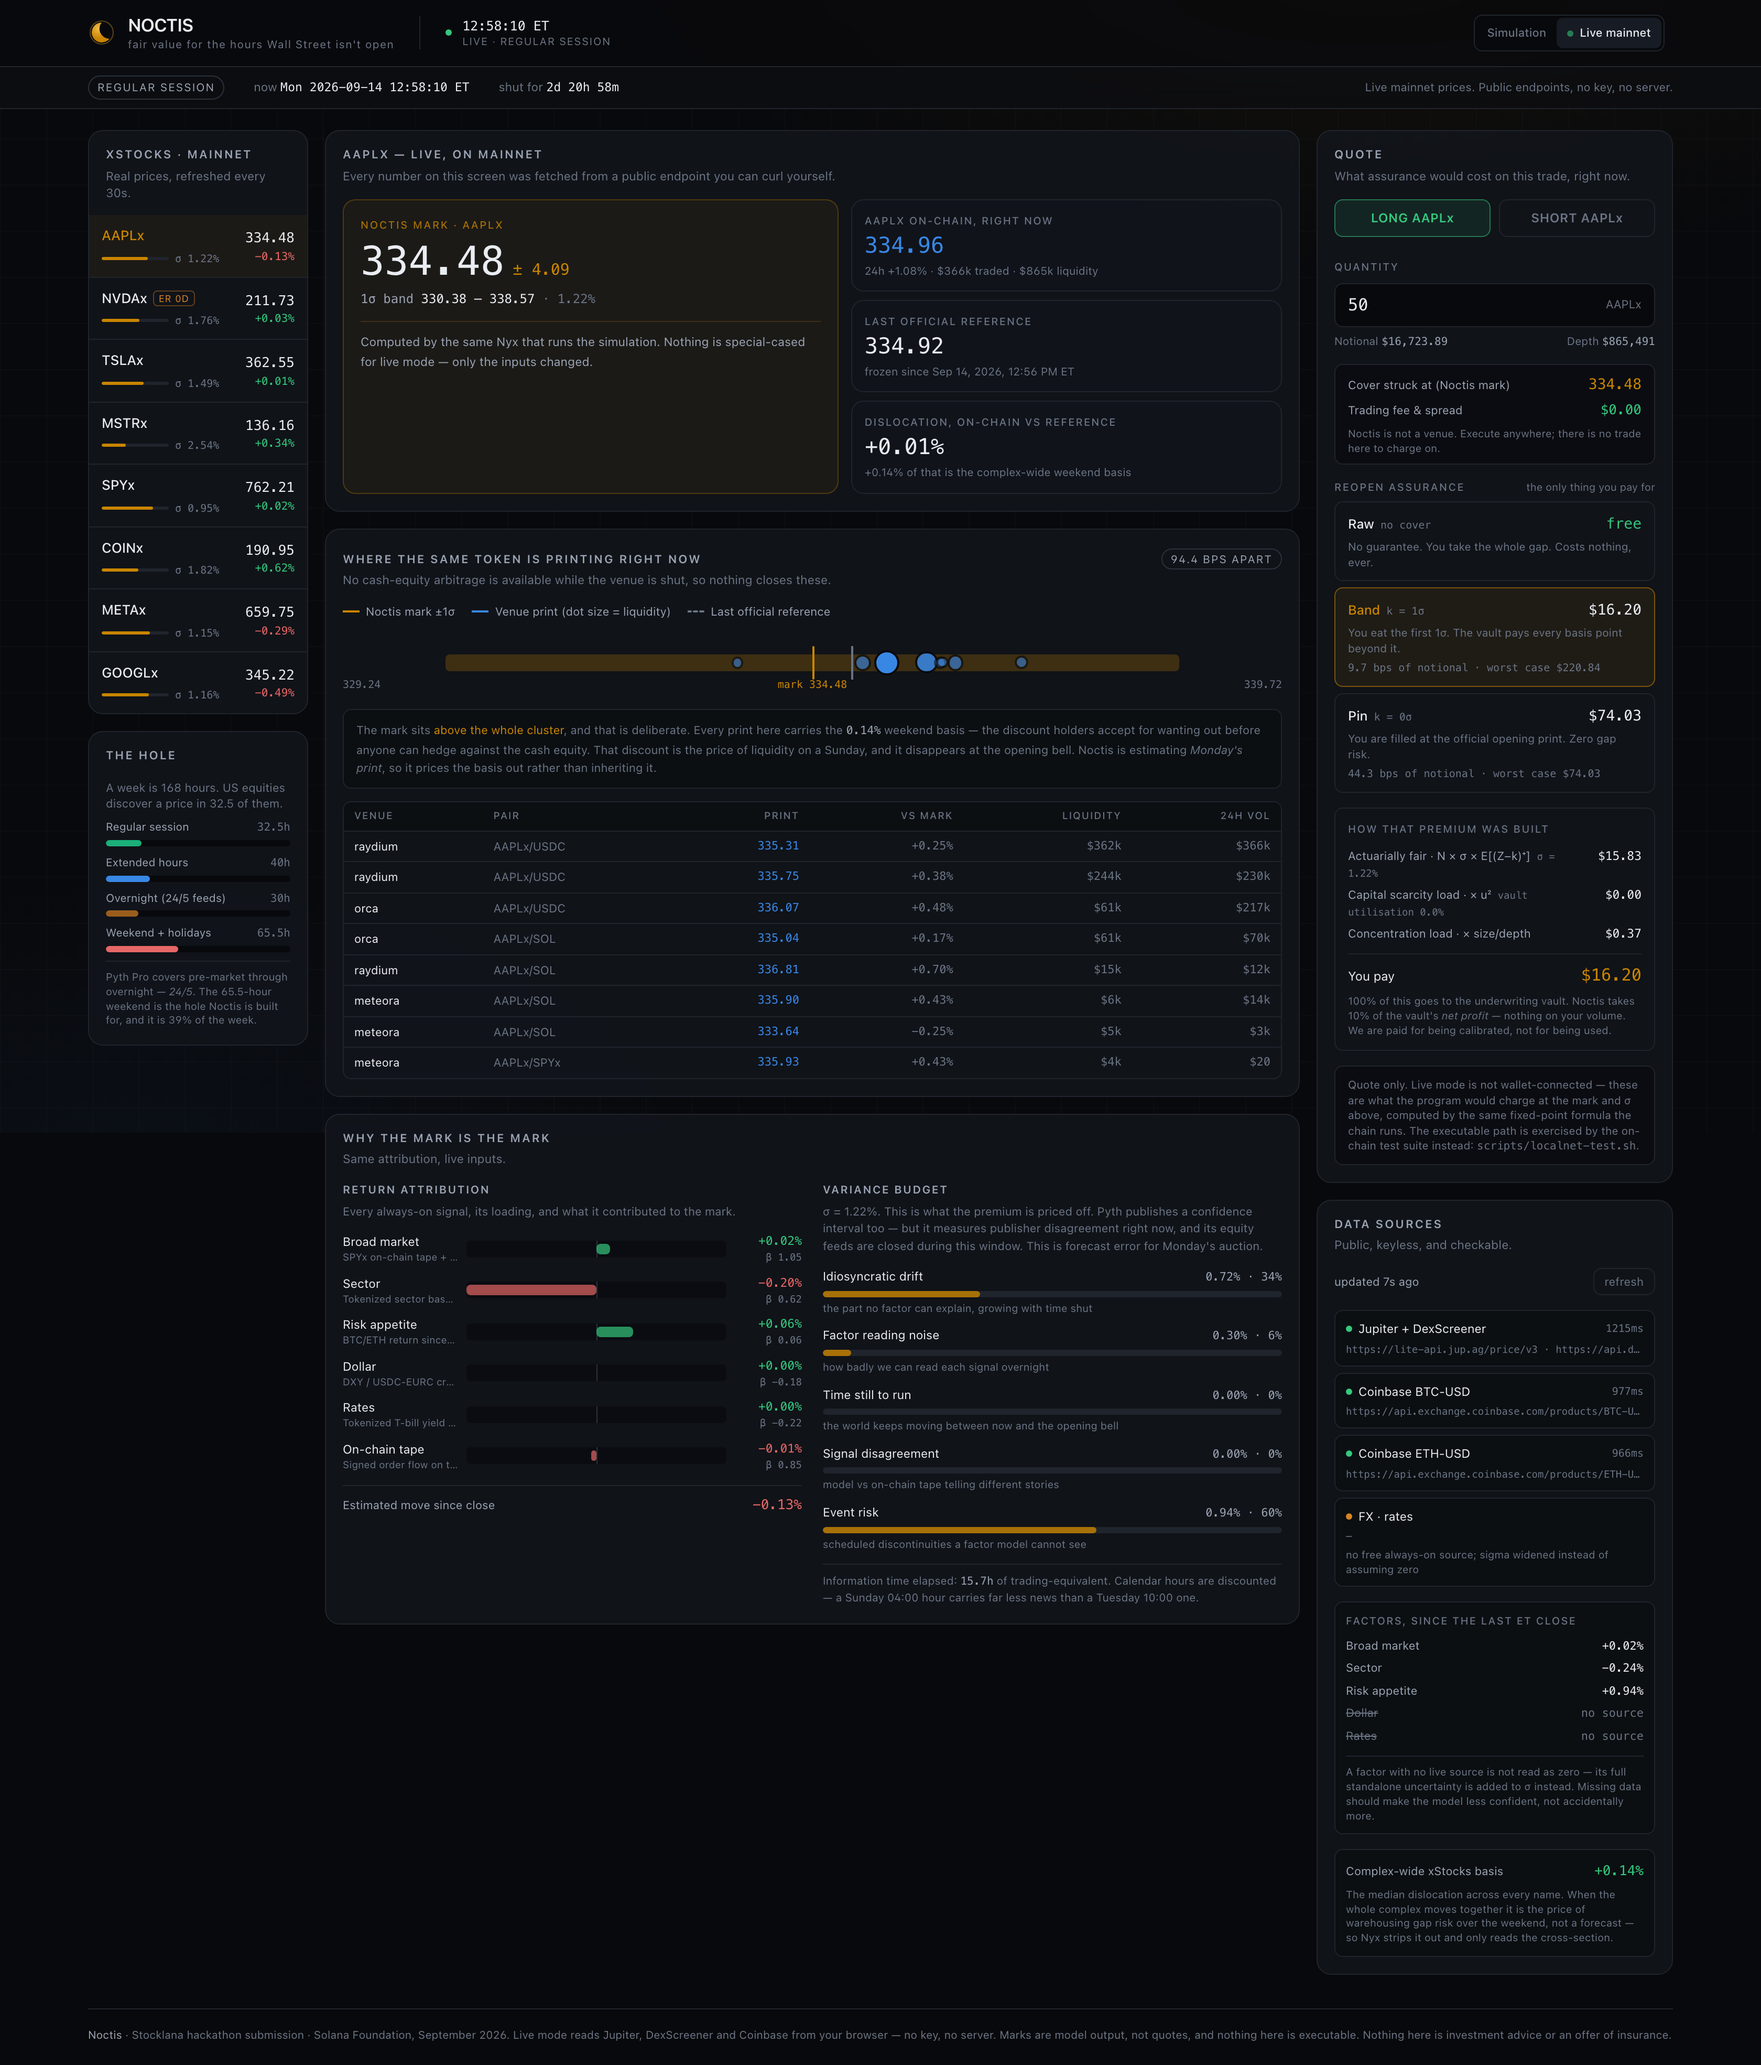
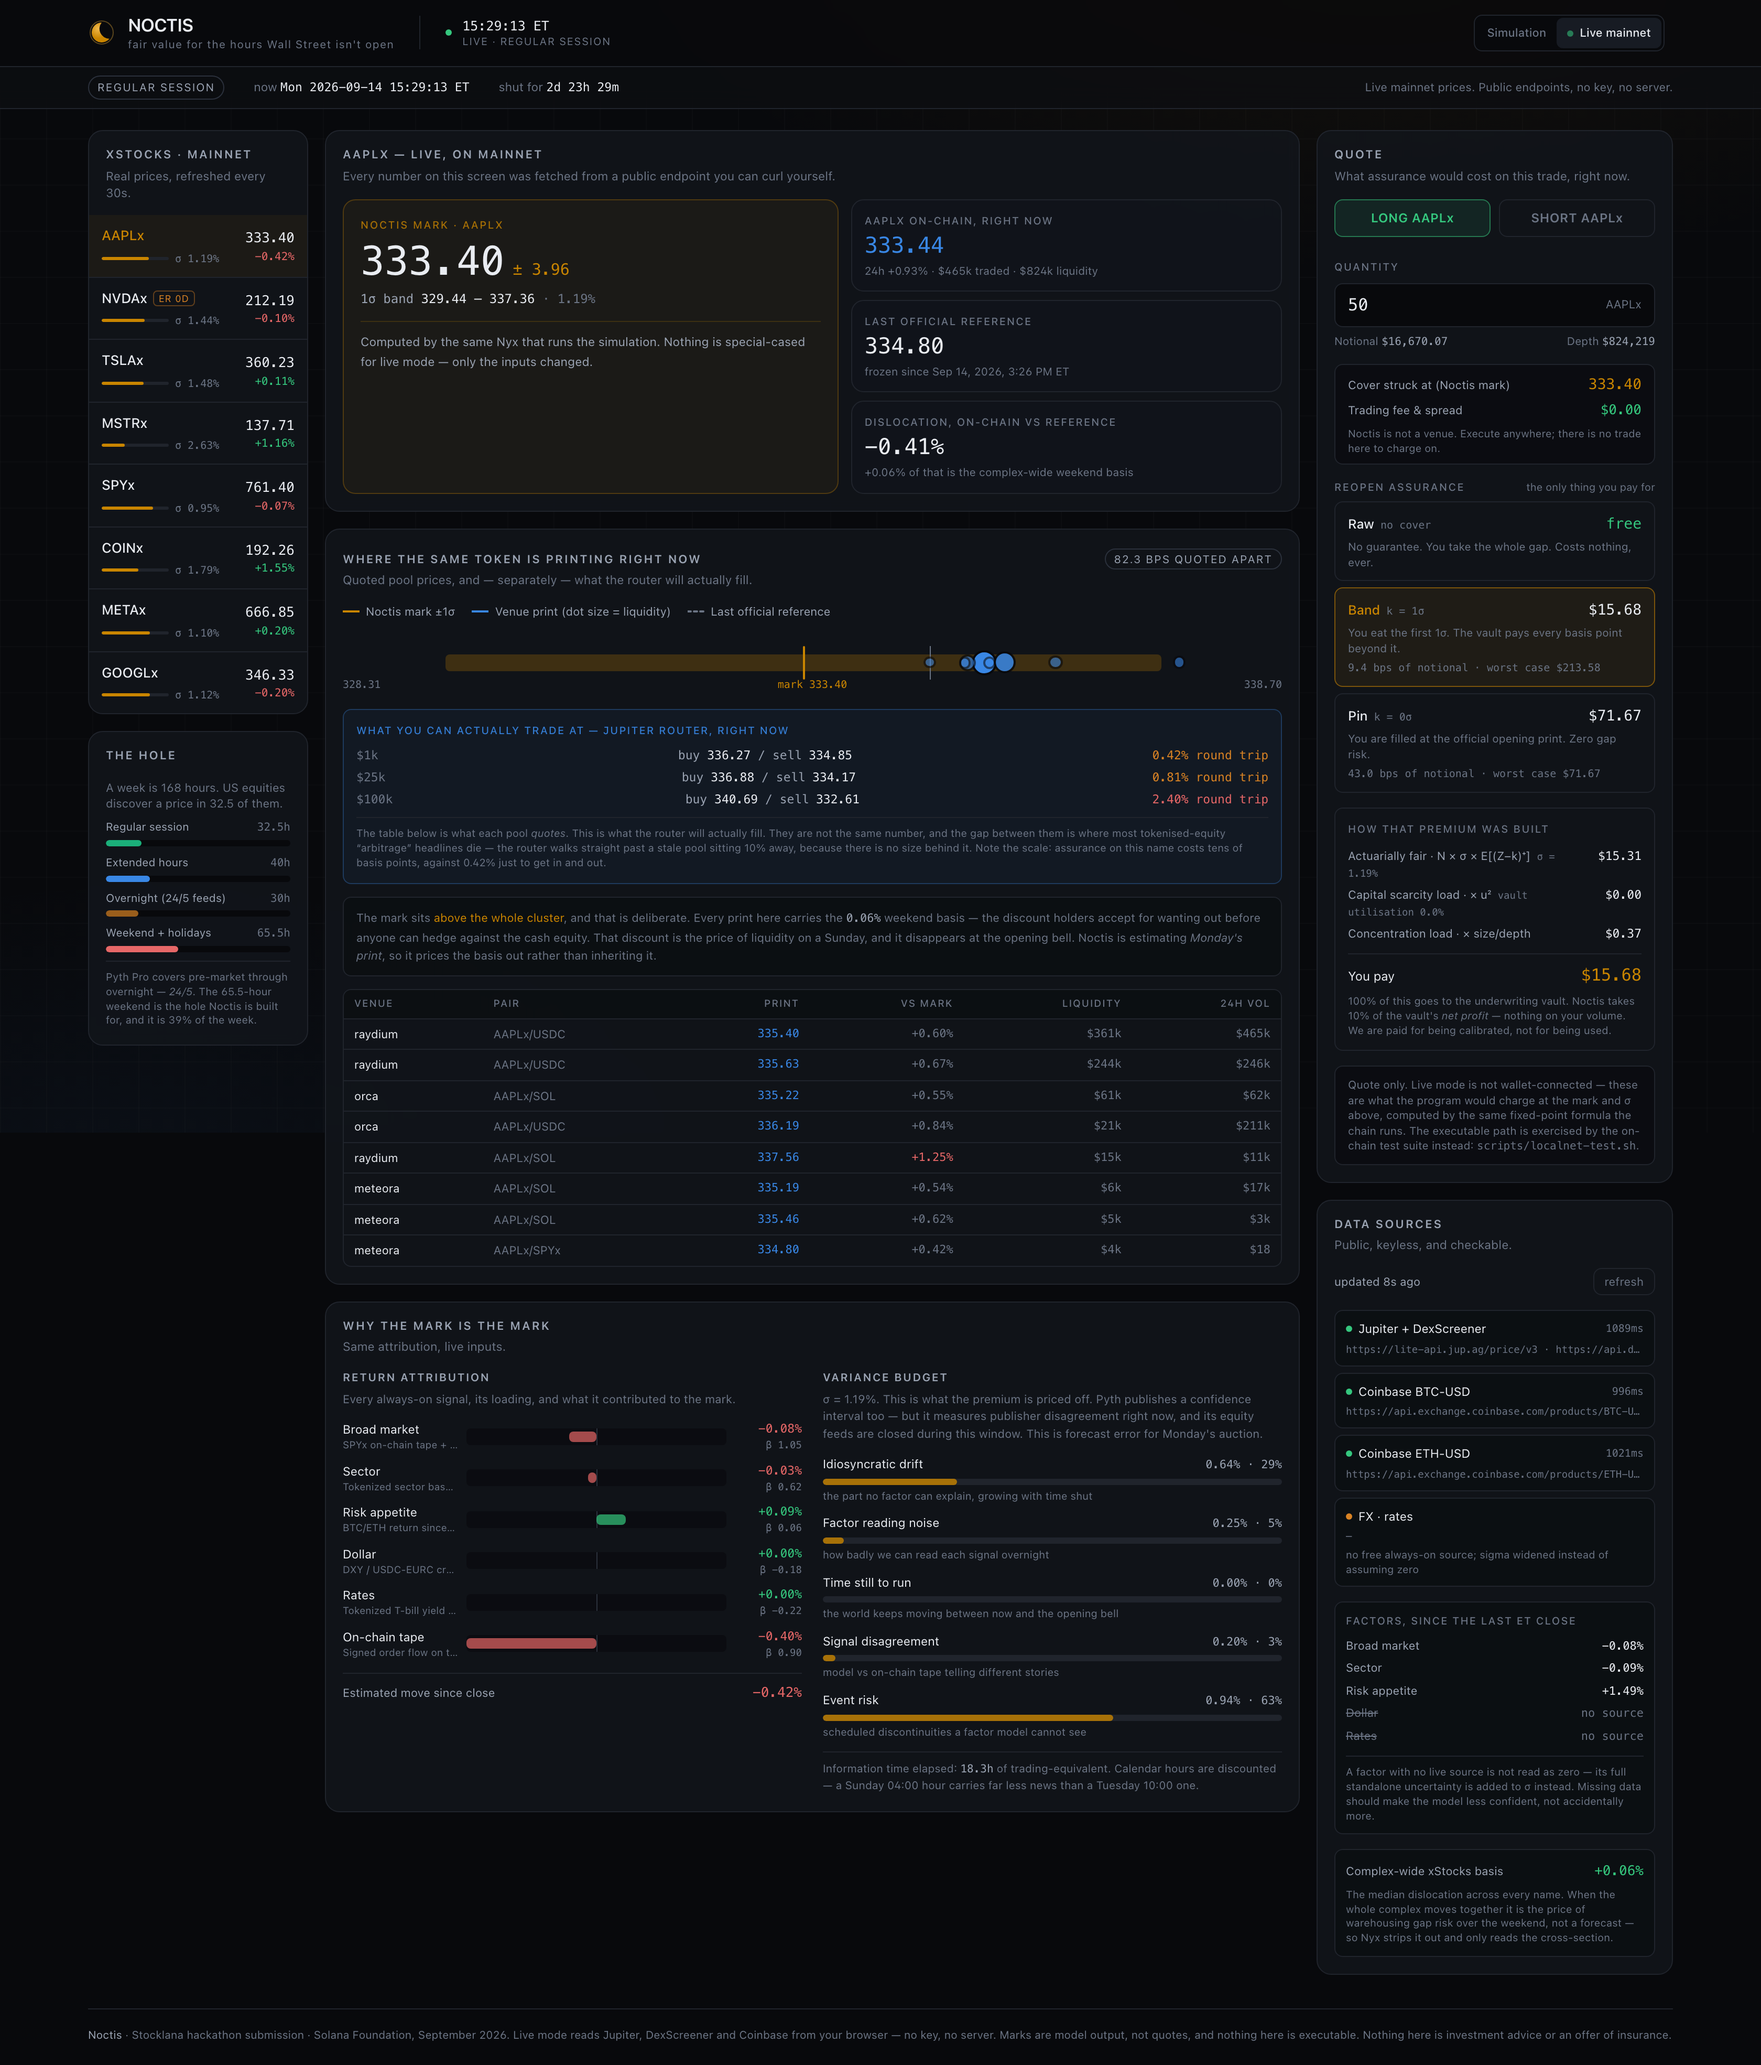
Quoted pool prices are not executable prices; show both
The demo headlined 1019 bps of dispersion across eight AAPLx pools. That number is
real as a statement about pool state and misleading as a statement about
opportunity -- a stale concentrated-liquidity position parked 10% away has no size
behind it and Jupiter's router walks straight past it. Presenting it without that
qualification is the most common error in tokenised-equity commentary and a judge
who trades would have caught it immediately.

The live panel now asks the router directly, both directions, at three sizes, and
reports the round trip: 0.42% at $1k, 0.81% at $25k, 2.40% at $100k. Quoted
dispersion is still shown, labelled as quoted.

Two things came out of measuring it. Same dispersion metric during Monday's session
reads 82 bps against 1019 on Sunday -- arbitrage tightens these pools when there is
something to arbitrage against and lets them scatter when there is not, which is
better evidence for the thesis than the raw level was. And it puts our own pricing
in proportion: assurance costs tens of basis points against 42 just to get in and
out.

diff --git a/app/src/components/VenueChart.tsx b/app/src/components/VenueChart.tsx
@@ -1,4 +1,4 @@
-import type { Venue } from '../lib/feeds';
+import type { Executable, Venue } from '../lib/feeds';
 import type { Mark } from '../lib/nyx';
 import { Key } from './ui';
 import { compact } from '../lib/fmt';
@@ -11,8 +11,11 @@ import { compact } from '../lib/fmt';
  * it is not a model output — it is just what the chain says.
  */
 export function VenueChart({
-  venues, mark, reference, loading, basis,
-}: { venues: Venue[]; mark: Mark; reference: number; loading: boolean; basis: number }) {
+  venues, mark, reference, loading, basis, executable,
+}: {
+  venues: Venue[]; mark: Mark; reference: number; loading: boolean;
+  basis: number; executable: Executable[];
+}) {
   if (loading && !venues.length) {
     return <p className="py-8 text-center text-[11.5px] text-ink3">reading the venues…</p>;
   }
@@ -68,6 +71,42 @@ export function VenueChart({
           <span>{B.toFixed(2)}</span>
         </div>
       </div>
+
+      {/* Quoted pool prices are not tradeable prices, and saying so is the
+          difference between an honest panel and a misleading one. */}
+      {executable.length > 0 && (
+        <div className="mb-3 rounded-lg border border-tape/30 bg-tape/[0.05] p-3">
+          <div className="mb-2 text-[10px] font-medium uppercase tracking-[0.1em] text-tape/90">
+            What you can actually trade at — Jupiter router, right now
+          </div>
+          <div className="space-y-1">
+            {executable.map((e) => (
+              <div key={e.size} className="flex items-baseline justify-between gap-2 text-[11.5px]">
+                <span className="num text-ink3">${(e.size / 1000).toFixed(0)}k</span>
+                <span className="num text-ink2">
+                  buy <span className="text-ink">{e.buyPrice.toFixed(2)}</span>
+                  {' / '}sell <span className="text-ink">{e.sellPrice.toFixed(2)}</span>
+                </span>
+                <span className={`num ${e.roundTrip > 0.02 ? 'text-down' : 'text-warn'}`}>
+                  {(e.roundTrip * 100).toFixed(2)}% round trip
+                </span>
+              </div>
+            ))}
+          </div>
+          <p className="mt-2 border-t border-line pt-2 text-[10px] leading-snug text-ink3">
+            The table below is what each pool <em>quotes</em>. This is what the
+            router will actually fill. They are not the same number, and the gap
+            between them is where most tokenised-equity &ldquo;arbitrage&rdquo;
+            headlines die — the router walks straight past a stale pool sitting 10%
+            away, because there is no size behind it.
+            {executable[0] && (
+              <> Note the scale: assurance on this name costs tens of basis points,
+              against {(executable[0].roundTrip * 100).toFixed(2)}% just to get in
+              and out.</>
+            )}
+          </p>
+        </div>
+      )}
 
       {/* The mark usually sits ABOVE every print. That looks wrong until you know
           why, so say why. */}

diff --git a/app/src/lib/feeds.ts b/app/src/lib/feeds.ts
@@ -211,7 +211,55 @@ export async function fetchVenues(mint: string): Promise<Venue[]> {
   return pairs.sort((a, b) => b.liquidity - a.liquidity).slice(0, 8);
 }
 
-/** Spread between the best-bid-ish and worst venue print, in bps of the median. */
+const USDC_MINT = 'EPjFWdd5AufqSSqeM2qN1xzybapC8G4wEGGkZwyTDt1v';
+
+export interface Executable {
+  size: number;
+  buyPrice: number;
+  sellPrice: number;
+  /** Round-trip cost as a fraction of mid. This is the number that matters. */
+  roundTrip: number;
+}
+
+/**
+ * What you can ACTUALLY trade at, from Jupiter's router.
+ *
+ * The venue table shows what each pool is quoting. Those are not the same thing,
+ * and conflating them is the classic tokenised-equity headline error: a stale CLMM
+ * position sitting 10% away looks like a screaming arbitrage right up until you
+ * notice the router walks straight past it, because there is no size behind it.
+ *
+ * The honest measure of "is this a price" is the round trip — buy N dollars of it,
+ * sell it straight back, see what is missing.
+ */
+export async function fetchExecutable(mint: string, decimals = 8): Promise<Executable[]> {
+  const SIZES = [1_000, 25_000, 100_000];
+  const out: Executable[] = [];
+  for (const size of SIZES) {
+    try {
+      const buy = await getJSON(
+        `https://lite-api.jup.ag/swap/v1/quote?inputMint=${USDC_MINT}&outputMint=${mint}` +
+        `&amount=${Math.round(size * 1e6)}&slippageBps=100`);
+      const qty = Number(buy?.outAmount ?? 0) / 10 ** decimals;
+      if (!qty) continue;
+      const sell = await getJSON(
+        `https://lite-api.jup.ag/swap/v1/quote?inputMint=${mint}&outputMint=${USDC_MINT}` +
+        `&amount=${buy.outAmount}&slippageBps=100`);
+      const back = Number(sell?.outAmount ?? 0) / 1e6;
+      if (!back) continue;
+      const buyPrice = size / qty;
+      const sellPrice = back / qty;
+      out.push({
+        size, buyPrice, sellPrice,
+        roundTrip: (buyPrice - sellPrice) / ((buyPrice + sellPrice) / 2),
+      });
+    } catch { /* a size that will not route is information too */ }
+  }
+  return out;
+}
+
+/** Spread between the best and worst QUOTED pool price, in bps of the median.
+ *  Not a tradeable spread — see `fetchExecutable`. */
 export function dispersionBps(vs: Venue[]): number {
   if (vs.length < 2) return 0;
   const px = vs.map((v) => v.price);

diff --git a/app/src/lib/useLive.ts b/app/src/lib/useLive.ts
@@ -4,8 +4,8 @@ import { sessionAt, type SessionState } from './market';
 import { computeMark, type Mark } from './nyx';
 import { quotePremium, type PremiumQuote, type Tier, type VaultState } from './pricing';
 import {
-  dispersionBps, factorsFor, fetchSnapshot, fetchVenues,
-  type LiveSnapshot, type Venue,
+  dispersionBps, factorsFor, fetchExecutable, fetchSnapshot, fetchVenues,
+  type Executable, type LiveSnapshot, type Venue,
 } from './feeds';
 
 const REFRESH_MS = 30_000;
@@ -22,6 +22,8 @@ export interface LiveState {
   venues: Venue[];
   venuesLoading: boolean;
   dispersion: number;
+  /** Round-trip cost from Jupiter's router — what a trade actually costs. */
+  executable: Executable[];
   quote: (tier: Tier, notional: number) => PremiumQuote;
   refresh: () => void;
   ageSeconds: number;
@@ -39,6 +41,7 @@ export function useLive(enabled: boolean, sym: string): LiveState {
   const [loading, setLoading] = useState(false);
   const [error, setError] = useState<string | null>(null);
   const [venues, setVenues] = useState<Venue[]>([]);
+  const [executable, setExecutable] = useState<Executable[]>([]);
   const [venuesLoading, setVenuesLoading] = useState(false);
   const [tick, setTick] = useState(0);
   const inflight = useRef(false);
@@ -90,6 +93,10 @@ export function useLive(enabled: boolean, sym: string): LiveState {
     const a = UNIVERSE.find((x) => x.sym === sym);
     if (!a) return;
     setVenuesLoading(true);
+    setExecutable([]);
+    fetchExecutable(a.mint)
+      .then((e) => { if (!dead) setExecutable(e); })
+      .catch(() => { if (!dead) setExecutable([]); });
     fetchVenues(a.mint)
       .then((v) => { if (!dead) setVenues(v); })
       .catch(() => { if (!dead) setVenues([]); })
@@ -143,7 +150,7 @@ export function useLive(enabled: boolean, sym: string): LiveState {
 
   return {
     loading, error, snap, session, assets, marks,
-    venues, venuesLoading, dispersion: dispersionBps(venues),
+    venues, venuesLoading, dispersion: dispersionBps(venues), executable,
     quote, refresh: load,
     ageSeconds: snap ? Math.floor((Date.now() - snap.fetchedAt) / 1000) : 0,
   };

diff --git a/app/src/App.tsx b/app/src/App.tsx
@@ -112,15 +112,16 @@ function LiveView({
 
         <Panel
           title="Where the same token is printing right now"
-          sub="No cash-equity arbitrage is available while the venue is shut, so nothing closes these."
+          sub="Quoted pool prices, and — separately — what the router will actually fill."
           right={live.dispersion > 0 && (
             <span className={`chip ${live.dispersion > 200 ? 'border-down/50 text-down' : 'border-warn/50 text-warn'}`}>
-              {bps(live.dispersion)} apart
+              {bps(live.dispersion)} quoted apart
             </span>
           )}
         >
           <VenueChart venues={live.venues} mark={mark} reference={l.reference}
-                      loading={live.venuesLoading} basis={live.snap?.basis ?? 0} />
+                      loading={live.venuesLoading} basis={live.snap?.basis ?? 0}
+                      executable={live.executable} />
         </Panel>
 
         <Panel title="Why the mark is the mark" sub="Same attribution, live inputs.">

diff --git a/README.md b/README.md
@@ -46,9 +46,21 @@ instant, real money in each:
 
 ![Venue dispersion](media/09-venues.png)
 
-**1019 basis points** between the highest and lowest print. Nobody can arbitrage
-that away, because the thing you would hedge against is shut. "The on-chain price"
-is not one number.
+**1019 basis points** between the highest and lowest *quoted* pool price. During
+Monday's session the same measurement reads **82 bps** — arbitrage tightens the
+pools when there is something to arbitrage against, and they scatter when there
+is not. That contrast is the thesis in one number.
+
+Two honest qualifications, both on screen in the app:
+
+- **Quoted is not executable.** A stale pool sitting 10% away is not free money;
+  Jupiter's router walks straight past it because there is no size behind it. The
+  panel now shows what the router will *actually* fill: a **0.42% round trip at
+  $1k, 2.40% at $100k**. That gap is where most tokenised-equity arbitrage
+  headlines die.
+- Note the scale, though — assurance on AAPLx costs *tens of basis points* against
+  a round trip that already costs 42. The friction Noctis prices is small next to
+  the friction already there.
 
 Pointing the code at mainnet also changed the model twice — see
 [docs/DATA.md](docs/DATA.md):

diff --git a/docs/COMPETITION.md b/docs/COMPETITION.md
@@ -75,8 +75,15 @@ the venue's own book is the index.
 
 That is a coherent design and it works when the venue is deep. It is exactly what
 Noctis argues against for a thin weekend DEX book — our live mode measures **1019
-bps between eight AAPLx pools at the same instant**. A mark taken from any one of
-them is a mark taken from whichever pool you happened to read.
+bps between eight AAPLx pools at the same instant** on a Sunday, against 82 bps
+during Monday's session. A mark taken from any one pool is a mark taken from
+whichever pool you happened to read.
+
+To be fair to that design: quoted dispersion is not executable dispersion, and a
+router aggregating across the pools recovers a far tighter number (0.42% round trip
+at $1k). The argument is not that the on-chain price is useless — it is that it is
+one noisy witness, which is why Nyx weights it by precision rather than either
+trusting it or ignoring it.
 
 ## Nightwatch — adjacent, not the same
 
